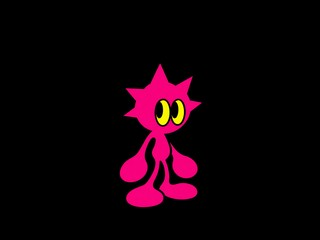
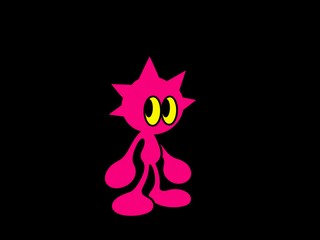
Size the character up and shift him slightly left.
Emulator friend window: 26%x38% at 37%,36% -> 34%x50% at 31%,30%.
Device export box: 48%x68% centered -> 58%x72% with a 3% leftward
offset. Same proportions on both surfaces.

Generated with [Devin](https://devin.ai)

Changed region(s): [[0.3125, 0.2333, 0.625, 0.9042]]

diff --git a/friend/gizmo_friend/static/oddity-device.css b/friend/gizmo_friend/static/oddity-device.css
@@ -18,7 +18,7 @@ main{padding:0 16px}.simulator{width:min(650px,100%,calc((100svh - 180px)*1145/1
 .device-talk:active{cursor:grabbing}.device-talk:focus-visible{outline:2px solid #ffb5da;outline-offset:4px}
 .device-talk:before{content:'';position:absolute;inset:-10% -55% -10% -90%}
 .device-up:before,.device-down:before,.device-select:before{content:'';position:absolute;inset:0 -12px 0 -3px}
-.device .friend{position:absolute;left:37%;top:36%;width:26%;height:38%;display:grid;place-items:center;pointer-events:none}.device .friend img{height:100%;width:auto;object-fit:contain}
+.device .friend{position:absolute;left:31%;top:30%;width:34%;height:50%;display:grid;place-items:center;pointer-events:none}.device .friend img{height:100%;width:auto;object-fit:contain}
 .device .caption,.device .stage:not(.has-scene) .caption{font-size:3.6cqw;bottom:10%;left:8%;right:8%;line-height:1.25;max-height:34%}
 .device .listening,.device .stage-top,.device .stage-bottom{display:none}
 .device .play-blocked{font-size:3.2cqw;padding:2cqw 2.8cqw}

diff --git a/friend/gizmo_friend/static/oddity.html b/friend/gizmo_friend/static/oddity.html
@@ -7,7 +7,7 @@
   <link rel="icon" href="data:,">
   <link rel="stylesheet" href="/static/oddity-boot.css?v=gate14">
   <link rel="stylesheet" href="/static/oddity.css">
-  <link rel="stylesheet" href="/static/oddity-device.css?v=gate40">
+  <link rel="stylesheet" href="/static/oddity-device.css?v=gate41">
   <link rel="stylesheet" href="/static/oddity-experience.css">
   <link rel="preload" as="image" href="/static/device-reference-ptt-pressed.png">
   <link rel="preload" as="image" href="/static/oddity-character-half.png">

diff --git a/body/assets/export_bundle.py b/body/assets/export_bundle.py
@@ -155,10 +155,10 @@ def home_base(source: Path, size: tuple[int, int]) -> Image.Image:
     width, height = size
     with Image.open(source) as opened:
         character = ImageOps.exif_transpose(opened).convert("RGBA")
-    box = (max(1, round(width * 0.48)), max(1, round(height * 0.68)))
+    box = (max(1, round(width * 0.58)), max(1, round(height * 0.72)))
     character.thumbnail(box, Image.Resampling.LANCZOS)
     canvas = Image.new("RGBA", size, (0, 0, 0, 255))
-    x = (width - character.width) // 2
+    x = (width - character.width) // 2 - round(width * 0.03)
     y = round((height - character.height) / 2 + height * 0.05)
     canvas.alpha_composite(character, (x, y))
     return canvas
